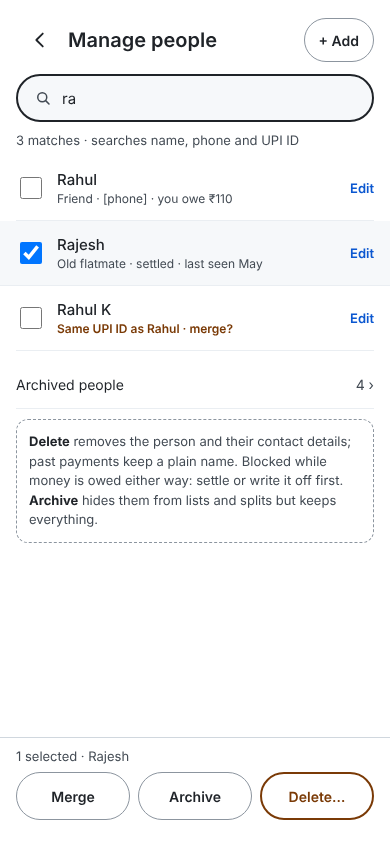
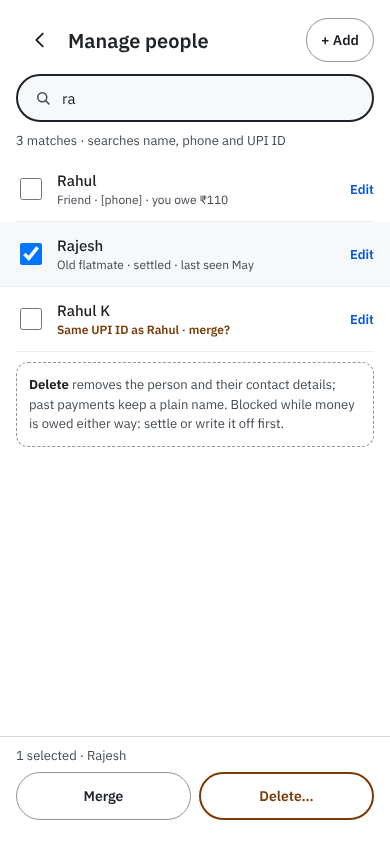
Simplify bills, people and money screens
- Remove the Electricity row and every manual Mark paid / received; bill status only follows payments, cash goes through +
- Remove Archive from Manage people and + New category from the category sheet
- Money keeps four chips so SMS not used is visible without scrolling
- Saved places lose the chevrons they had without a destination

Claude-Session: https://claude.ai/code/session_01U2qtjUrRfDaXvxT2nZTugL

diff --git a/expense-tracker/wireframes/reused-v1/Places.html b/expense-tracker/wireframes/reused-v1/Places.html
@@ -40,9 +40,9 @@ a{color:#0B57D0}a:hover{color:#08408F}
 
     <div style="display: flex; flex-direction: column">
       <span style="font-family: 'IBM Plex Mono', monospace; font-size: 11px; color: #57606A; letter-spacing: 0.06em; padding-bottom: 4px">SAVED</span>
-      <div style="display: flex; align-items: center; height: 56px; border-bottom: 1px solid #EAEEF2; gap: 8px"><span style="flex-grow: 1; display: flex; flex-direction: column; gap: 2px"><span style="font-size: 15px; font-weight: 500">Home</span><span style="font-size: 12px; color: #57606A">150 m radius · [N] payments</span></span><span style="color: #57606A">›</span></div>
-      <div style="display: flex; align-items: center; height: 56px; border-bottom: 1px solid #EAEEF2; gap: 8px"><span style="flex-grow: 1; display: flex; flex-direction: column; gap: 2px"><span style="font-size: 15px; font-weight: 500">Office</span><span style="font-size: 12px; color: #57606A">200 m radius · [N] payments</span></span><span style="color: #57606A">›</span></div>
-      <div style="display: flex; align-items: center; height: 56px; border-bottom: 1px solid #EAEEF2; gap: 8px"><span style="flex-grow: 1; display: flex; flex-direction: column; gap: 2px"><span style="font-size: 15px; font-weight: 500">Cyber Hub</span><span style="font-size: 12px; color: #57606A">from map data · corrected by you</span></span><span style="color: #57606A">›</span></div>
+      <div style="display: flex; align-items: center; height: 56px; border-bottom: 1px solid #EAEEF2; gap: 8px"><span style="flex-grow: 1; display: flex; flex-direction: column; gap: 2px"><span style="font-size: 15px; font-weight: 500">Home</span><span style="font-size: 12px; color: #57606A">150 m radius · [N] payments</span></span></div>
+      <div style="display: flex; align-items: center; height: 56px; border-bottom: 1px solid #EAEEF2; gap: 8px"><span style="flex-grow: 1; display: flex; flex-direction: column; gap: 2px"><span style="font-size: 15px; font-weight: 500">Office</span><span style="font-size: 12px; color: #57606A">200 m radius · [N] payments</span></span></div>
+      <div style="display: flex; align-items: center; height: 56px; border-bottom: 1px solid #EAEEF2; gap: 8px"><span style="flex-grow: 1; display: flex; flex-direction: column; gap: 2px"><span style="font-size: 15px; font-weight: 500">Cyber Hub</span><span style="font-size: 12px; color: #57606A">from map data · corrected by you</span></span></div>
     </div>
     <div style="font-size: 12px; color: #57606A; line-height: 1.4">Your saved places beat map names. Location log keeps 7 days and pauses when you're not moving.</div>
   </div>

diff --git a/expense-tracker/wireframes/v2/V2-Bills.html b/expense-tracker/wireframes/v2/V2-Bills.html
@@ -27,15 +27,11 @@ a{color:#0B57D0}a:hover{color:#08408F}
 
   <div style="flex-grow: 1; padding: 4px 16px 12px; display: flex; flex-direction: column; gap: 12px; overflow: hidden">
     <div style="background: #FFFFFF; border: 1px solid #D0D7DE; border-radius: 16px; padding: 4px 14px; display: flex; flex-direction: column">
-      <div style="display: flex; justify-content: space-between; align-items: center; min-height: 48px"><strong style="font-size: 15px">I pay · 3 of 4 done</strong><span style="font-size: 13px; color: #424A53">your part ₹[x]</span></div>
+      <div style="display: flex; justify-content: space-between; align-items: center; min-height: 48px"><strong style="font-size: 15px">I pay · all 3 done</strong><span style="font-size: 13px; color: #424A53">your part ₹[x]</span></div>
       <a href="V2-Rent-Pay.html" style="display: flex; align-items: center; gap: 10px; min-height: 64px; border-top: 1px solid #EAEEF2; color: #1F2328; text-decoration: none">
         <span style="flex-grow: 1; display: flex; flex-direction: column; gap: 2px"><span style="font-size: 15px; font-weight: 600">Rent · Flat 4C</span><span style="font-size: 12px; color: #424A53">To landlord · split with 2 flatmates</span></span>
         <span style="display: flex; flex-direction: column; align-items: flex-end; gap: 2px"><span style="font-size: 13px; font-weight: 600">✓ Paid 1 Oct</span><span style="font-size: 12px; color: #424A53">₹[x]</span></span>
       </a>
-      <div style="display: flex; align-items: center; gap: 10px; min-height: 64px; border-top: 1px solid #EAEEF2">
-        <span style="flex-grow: 1; display: flex; flex-direction: column; gap: 2px"><span style="font-size: 15px; font-weight: 600">Electricity</span><span style="font-size: 12px; color: #424A53">Usually around the 10th · ~₹[x]</span></span>
-        <button type="button" style="min-height: 44px; padding: 0 12px; border-radius: 22px; border: 2px solid #7A3A06; background: #FFFFFF; font: inherit; font-size: 13px; font-weight: 600; color: #7A3A06">Not paid · Mark</button>
-      </div>
       <a href="V2-Bill-Add.html" style="display: flex; align-items: center; gap: 10px; min-height: 56px; border-top: 1px solid #EAEEF2; color: #1F2328; text-decoration: none">
         <span style="flex-grow: 1; font-size: 15px">Wi-Fi</span><span style="font-size: 13px; font-weight: 600">✓ Paid 4 Oct</span>
       </a>

diff --git a/expense-tracker/wireframes/v2/V2-People-Manage.html b/expense-tracker/wireframes/v2/V2-People-Manage.html
@@ -47,18 +47,15 @@ a{color:#0B57D0}a:hover{color:#08408F}
         <span style="font-size: 13px; font-weight: 600; color: #0B57D0">Edit</span>
       </label>
     </div>
-    <button type="button" style="min-height: 48px; display: flex; justify-content: space-between; align-items: center; border: none; border-bottom: 1px solid #EAEEF2; background: transparent; font: inherit; font-size: 14px; color: #1F2328; padding: 0"><span>Archived people</span><span style="color: #424A53">4 ›</span></button>
     <div style="border: 1px dashed #8C959F; border-radius: 12px; padding: 12px; font-size: 13px; color: #424A53; line-height: 1.5">
-      <strong style="color: #1F2328">Delete</strong> removes the person and their contact details; past payments keep a plain name. Blocked while money is owed either way: settle or write it off first.<br>
-      <strong style="color: #1F2328">Archive</strong> hides them from lists and splits but keeps everything.
+      <strong style="color: #1F2328">Delete</strong> removes the person and their contact details; past payments keep a plain name. Blocked while money is owed either way: settle or write it off first.
     </div>
   </div>
 
   <div style="border-top: 1px solid #D0D7DE; padding: 10px 16px 24px; display: flex; flex-direction: column; gap: 8px">
     <span style="font-size: 13px; color: #424A53">1 selected · Rajesh</span>
-    <div style="display: grid; grid-template-columns: repeat(3, minmax(0, 1fr)); gap: 8px">
+    <div style="display: grid; grid-template-columns: repeat(2, minmax(0, 1fr)); gap: 8px">
       <button type="button" style="min-height: 48px; border-radius: 24px; border: 1px solid #8C959F; background: #FFFFFF; font: inherit; font-size: 14px; font-weight: 600; color: #1F2328">Merge</button>
-      <button type="button" style="min-height: 48px; border-radius: 24px; border: 1px solid #8C959F; background: #FFFFFF; font: inherit; font-size: 14px; font-weight: 600; color: #1F2328">Archive</button>
       <button type="button" style="min-height: 48px; border-radius: 24px; border: 2px solid #7A3A06; background: #FFFFFF; font: inherit; font-size: 14px; font-weight: 600; color: #7A3A06">Delete…</button>
     </div>
   </div>

diff --git a/expense-tracker/wireframes/v2/V2-Money.html b/expense-tracker/wireframes/v2/V2-Money.html
@@ -41,8 +41,6 @@ a{color:#0B57D0}a:hover{color:#08408F}
       <button type="button" role="tab" aria-selected="true" style="min-height: 48px; padding: 0 16px; border-radius: 24px; border: none; background: #1F2328; color: #FFFFFF; font: inherit; font-size: 14px; font-weight: 600; flex-shrink: 0">All</button>
       <button type="button" role="tab" aria-selected="false" style="min-height: 48px; padding: 0 16px; border-radius: 24px; border: 1px solid #8C959F; background: #FFFFFF; font: inherit; font-size: 14px; color: #1F2328; flex-shrink: 0">Spent</button>
       <a href="V2-Money-In.html" role="tab" aria-selected="false" style="min-height: 48px; padding: 0 16px; border-radius: 24px; border: 1px solid #8C959F; box-sizing: border-box; font-size: 14px; color: #1F2328; display: flex; align-items: center; text-decoration: none; flex-shrink: 0">Received</a>
-      <button type="button" role="tab" aria-selected="false" style="min-height: 48px; padding: 0 16px; border-radius: 24px; border: 1px solid #8C959F; background: #FFFFFF; font: inherit; font-size: 14px; color: #1F2328; flex-shrink: 0">Refunds</button>
-      <button type="button" role="tab" aria-selected="false" style="min-height: 48px; padding: 0 16px; border-radius: 24px; border: 1px solid #8C959F; background: #FFFFFF; font: inherit; font-size: 14px; color: #1F2328; flex-shrink: 0">Between my accounts</button>
       <a href="V2-Money-SMS.html" role="tab" aria-selected="false" style="min-height: 48px; padding: 0 16px; border-radius: 24px; border: 1px solid #8C959F; box-sizing: border-box; font-size: 14px; color: #1F2328; display: flex; align-items: center; text-decoration: none; flex-shrink: 0">SMS not used</a>
     </div>
     <div style="display: flex; gap: 8px; align-items: center">

diff --git a/expense-tracker/wireframes/v2/V2-Category-Sheet.html b/expense-tracker/wireframes/v2/V2-Category-Sheet.html
@@ -41,7 +41,6 @@ a{color:#0B57D0}a:hover{color:#08408F}
       <button type="button" role="radio" aria-checked="false" style="min-height: 64px; border-radius: 14px; border: 1px solid #8C959F; background: #FFFFFF; font: inherit; color: #1F2328; display: flex; flex-direction: column; align-items: flex-start; justify-content: center; padding: 8px 12px; gap: 2px"><strong style="font-size: 15px">Bills &amp; utilities</strong><span style="font-size: 12px; color: #424A53">₹[x]</span></button>
       <button type="button" role="radio" aria-checked="false" style="min-height: 64px; border-radius: 14px; border: 1px solid #8C959F; background: #FFFFFF; font: inherit; color: #1F2328; display: flex; flex-direction: column; align-items: flex-start; justify-content: center; padding: 8px 12px; gap: 2px"><strong style="font-size: 15px">Shopping</strong><span style="font-size: 12px; color: #424A53">₹[x] · over budget</span></button>
       <button type="button" role="radio" aria-checked="false" style="min-height: 64px; border-radius: 14px; border: 1px solid #8C959F; background: #FFFFFF; font: inherit; color: #1F2328; display: flex; flex-direction: column; align-items: flex-start; justify-content: center; padding: 8px 12px; gap: 2px"><strong style="font-size: 15px">Health</strong><span style="font-size: 12px; color: #424A53">₹[x]</span></button>
-      <button type="button" style="min-height: 64px; border-radius: 14px; border: 1px dashed #8C959F; background: #FFFFFF; font: inherit; font-size: 15px; font-weight: 600; color: #0B57D0">+ New category</button>
     </div>
 
     <label style="display: flex; align-items: center; gap: 12px; min-height: 52px; font-size: 15px">

diff --git a/expense-tracker/wireframes/v2/V2-Rent-Collect.html b/expense-tracker/wireframes/v2/V2-Rent-Collect.html
@@ -29,11 +29,8 @@ a{color:#0B57D0}a:hover{color:#08408F}
     <div style="border: 2px solid #7A3A06; border-radius: 16px; padding: 14px; display: flex; flex-direction: column; gap: 10px">
       <div style="display: flex; justify-content: space-between; align-items: baseline"><span style="font-size: 14px">October rent</span><strong style="font-size: 24px">₹[rent]</strong></div>
       <span style="font-size: 14px; font-weight: 600; color: #7A3A06">Not received · 18 days late</span>
-      <div style="display: grid; grid-template-columns: repeat(2, minmax(0, 1fr)); gap: 8px">
-        <button type="button" style="min-height: 48px; border-radius: 24px; border: none; background: #0B57D0; color: #FFFFFF; font: inherit; font-size: 14px; font-weight: 600">WhatsApp reminder</button>
-        <button type="button" style="min-height: 48px; border-radius: 24px; border: 2px solid #1F2328; background: #FFFFFF; font: inherit; font-size: 14px; font-weight: 600; color: #1F2328">Mark received</button>
-      </div>
-      <span style="font-size: 12px; color: #424A53">Mark received asks: full or part, cash or UPI, which account.</span>
+      <button type="button" style="min-height: 48px; border-radius: 24px; border: none; background: #0B57D0; color: #FFFFFF; font: inherit; font-size: 14px; font-weight: 600">WhatsApp reminder</button>
+      <span style="font-size: 12px; color: #424A53">Turns to received by itself when their UPI payment arrives. Got cash? <a href="V2-Add-Received.html" style="font-weight: 600">Add it with + › Received</a>.</span>
     </div>
 
     <div style="display: flex; flex-direction: column">

diff --git a/expense-tracker/wireframes/v2/V2-Month.html b/expense-tracker/wireframes/v2/V2-Month.html
@@ -38,7 +38,7 @@ a{color:#0B57D0}a:hover{color:#08408F}
 
     <a href="V2-Bills.html" style="background: #FFFFFF; border: 1px solid #D0D7DE; border-radius: 16px; padding: 4px 14px; display: flex; flex-direction: column; color: #1F2328; text-decoration: none">
       <span style="display: flex; justify-content: space-between; align-items: center; min-height: 48px; font-size: 15px"><strong>Rent &amp; bills</strong><span style="color: #0B57D0; font-weight: 600">Open ›</span></span>
-      <span style="display: flex; justify-content: space-between; align-items: center; min-height: 44px; border-top: 1px solid #EAEEF2; font-size: 14px"><span>I pay · 3 of 4 paid</span><span>₹[x] left</span></span>
+      <span style="display: flex; justify-content: space-between; align-items: center; min-height: 44px; border-top: 1px solid #EAEEF2; font-size: 14px"><span>I pay · all 3 paid</span><span>₹[x]</span></span>
       <span style="display: flex; justify-content: space-between; align-items: center; min-height: 44px; border-top: 1px solid #EAEEF2; font-size: 14px"><span>I collect · 1 of 2 received</span><span style="font-weight: 600; color: #7A3A06">₹[x] pending</span></span>
     </a>
 

diff --git a/expense-tracker/wireframes/v2/V2-Today-Done.html b/expense-tracker/wireframes/v2/V2-Today-Done.html
@@ -49,7 +49,6 @@ a{color:#0B57D0}a:hover{color:#08408F}
       <span style="display: flex; justify-content: space-between; align-items: center; min-height: 44px; font-size: 14px"><strong>Rent &amp; bills · October</strong><span style="color: #0B57D0; font-weight: 600">All ›</span></span>
       <span style="display: flex; justify-content: space-between; align-items: center; min-height: 44px; border-top: 1px solid #EAEEF2; font-size: 14px"><span>Rent I pay</span><span style="font-weight: 600">Paid 1 Oct</span></span>
       <span style="display: flex; justify-content: space-between; align-items: center; min-height: 44px; border-top: 1px solid #EAEEF2; font-size: 14px"><span>Rent I collect</span><span style="font-weight: 600; color: #7A3A06">1 of 2 received</span></span>
-      <span style="display: flex; justify-content: space-between; align-items: center; min-height: 44px; border-top: 1px solid #EAEEF2; font-size: 14px"><span>Electricity</span><span style="font-weight: 600; color: #7A3A06">Not paid yet</span></span>
     </a>
   </div>
 

diff --git a/expense-tracker/SPEC.md b/expense-tracker/SPEC.md
@@ -140,7 +140,7 @@ Every table also has `uid` (UUID string, unique), `created_at` and `updated_at`.
 | **Category** | id, name, icon, kind (spend\|income), is_fixed (rent/bills/subscriptions/EMI), monthly_budget_paise?, sort, archived |
 | **Merchant** | id, raw_identifier (UPI ID or SMS name), display_name, default_category_id, default_place_id, usual_people_ids, always_use_category (bool), default_type? (e.g. invested) |
 | **Account** | id, name, bank, last4, type (savings\|current\|credit_card\|debit_card\|wallet\|cash), linked_upi_ids, is_mine, confirmed, last_balance_paise, balance_as_of, credit_limit_paise, statement_paise, due_date, hidden |
-| **Person** | id, name, phone?, upi_ids, **group** (friend \| flatmate \| tenant \| landlord \| family \| other), archived, merged_into_id? |
+| **Person** | id, name, phone?, upi_ids, **group** (friend \| flatmate \| tenant \| landlord \| family \| other), merged_into_id? |
 | **Split** | id, transaction_id, person_id (null = me), share_paise, paid_paise, method (equal\|amount\|percent\|shares), shares? |
 | **Settlement** | id, person_id, amount_paise, direction (they_paid_me\|i_paid_them), method (cash\|upi), occurred_at, transaction_id?, write_off (bool) |
 | **Bill** | id, name, **direction** (pay\|collect), kind (rent\|electricity\|wifi\|maintenance\|house_help\|gas\|phone\|other), amount_paise, amount_from_month?, variable (bool), due_day (1–31), counterparty_person_id (landlord or tenant), pay_via (landlord_direct\|through_flatmate), via_person_id?, match_upi_ids, match_names, account_id, category_id, split_person_ids (flatmates), deposit_paise?, lease_start?, lease_end?, active |
@@ -156,7 +156,7 @@ Every table also has `uid` (UUID string, unique), `created_at` and `updated_at`.
 ### Key formulas
 - **My share** of a transaction = its Split row with person_id = null; with no splits, the full amount. Equal splits: leftover paise go to me.
 - **Person balance** = Σ their share on transactions I paid + their share of bills I pay − Σ my share on transactions they paid − settlements ± borrowed/lent. Rent a tenant owes is tracked on BillPeriod, not as a balance.
-- **Delete person** blocked while balance ≠ 0 or a collect bill is pending; archive always allowed.
+- **Delete person** blocked while balance ≠ 0 or a collect bill is pending; there is no archive.
 - **Editing an old split** that was already settled creates a new balance for the difference; settlements are never edited silently.
 
 ### AI tools (optional model, fixed queries only)
@@ -187,7 +187,7 @@ Every table also has `uid` (UUID string, unique), `created_at` and `updated_at`.
 
 ### 4.3 Rent & bills
 - A Bill is **pay** (rent to landlord, electricity, Wi-Fi, house help…) or **collect** (rent from each tenant). Each month gets a BillPeriod: pending → partial → done.
-- Auto-match: a debit to / credit from the bill's UPI IDs or names in the month (amount within ±10% when variable) marks it done; a credit from a tenant is typed income (rent collected). Manual "Mark paid / received" asks: full or part, cash or UPI, account. Cash rent can be added via 5.6.
+- Auto-match: a debit to / credit from the bill's UPI IDs or names in the month (amount within ±10% when variable) marks it done; a credit from a tenant is typed income (rent collected). There is no manual "Mark paid": status only changes when a matching payment arrives or is added. Cash paid or received (rent, house help) is added with + (5.1 / 5.6) and matches the bill.
 - **Rent I pay with flatmates:** my share counts in Money out; each flatmate's share is added to their balance every month automatically.
 - **Paid through a flatmate:** pay_via = through_flatmate; my payment to that flatmate marks my part of the month done.
 - **Rent change:** editing the amount asks "from which month"; past months never change.
@@ -230,7 +230,7 @@ SMS + notification for one payment → merge (amount, 5 min, ref no.) · same am
 1. **Foundation:** project, encrypted Room DB (§3), app lock, bottom nav + empty tabs, cash Add sheet, CSV export. *Done when* cash entries appear on Money and Month totals are right.
 2. **Capture & SMS engine (§6):** SMS receiver, inbox import, bank templates, notification listener, dedupe, SMS types, account strip, refunds/failed/self-transfer. *Done when* a real week is captured with no misses or doubles and the test corpus passes 100% on direction and amount.
 3. **Answering:** Today cards, pinned nightly notification with actions and undo, Split / Not mine / Category / Money received sheets, backlog view, merchant memory. *Done when* 10 payments are answered in under 60 s and the notification can't be dismissed early.
-4. **People:** groups, search, manage (edit, merge, archive, delete rules), add person, balances, settlements, auto-match, WhatsApp reminder, trips.
+4. **People:** groups, search, manage (edit, merge, delete rules), add person, balances, settlements, auto-match, WhatsApp reminder, trips.
 5. **Month:** In / Out / Saved / invested, honest income rules, categories and budgets (incl. whole-month), fixed vs everyday, year view, CSV statement, cash check.
 6. **Rent & bills:** Bill + BillPeriod, pay and collect, flatmate splits, pay-through-flatmate, tenant ledger, rent change, end tenancy, auto-match, setup step 6.2, HRA/rental tax exports. *Done when* a month of rent paid and collected marks itself without manual taps.
 7. **Location:** GPS logger, saved places, offline POIs, place on every card.

diff --git a/expense-tracker/SCREENS.md b/expense-tracker/SCREENS.md
@@ -33,7 +33,7 @@ A static page can draw only one target per button, so these rules apply in the a
 | 3.3 · Year view | [png](screens/v2/V2-Year.png) | [html](wireframes/v2/V2-Year.html) | 3.1 |
 | 4.1 · Rent & bills this month | [png](screens/v2/V2-Bills.png) | [html](wireframes/v2/V2-Bills.html) | 4.4, 3.1, 4.3, 4.2 |
 | 4.2 · Rent I pay (split with flatmates) | [png](screens/v2/V2-Rent-Pay.png) | [html](wireframes/v2/V2-Rent-Pay.html) | 4.4, 4.1 |
-| 4.3 · Rent I collect (tenant) | [png](screens/v2/V2-Rent-Collect.png) | [html](wireframes/v2/V2-Rent-Collect.html) | 4.4, 4.1 |
+| 4.3 · Rent I collect (tenant) | [png](screens/v2/V2-Rent-Collect.png) | [html](wireframes/v2/V2-Rent-Collect.html) | 5.6, 4.4, 4.1 |
 | 4.4 · Add a monthly bill or rent | [png](screens/v2/V2-Bill-Add.png) | [html](wireframes/v2/V2-Bill-Add.html) | 4.1 |
 | 5.1 · Add (sheet): spent or received | [png](screens/v2/V2-Add.png) | [html](wireframes/v2/V2-Add.html) | 5.6, 1.6, 1.3, 1.2 |
 | 5.2 · People | [png](screens/v2/V2-People.png) | [html](wireframes/v2/V2-People.html) | 5.1, 2.1, 3.1, 5.2, 5.5, 5.3, 4.3, 1.2, 5.4, 7.6 |
